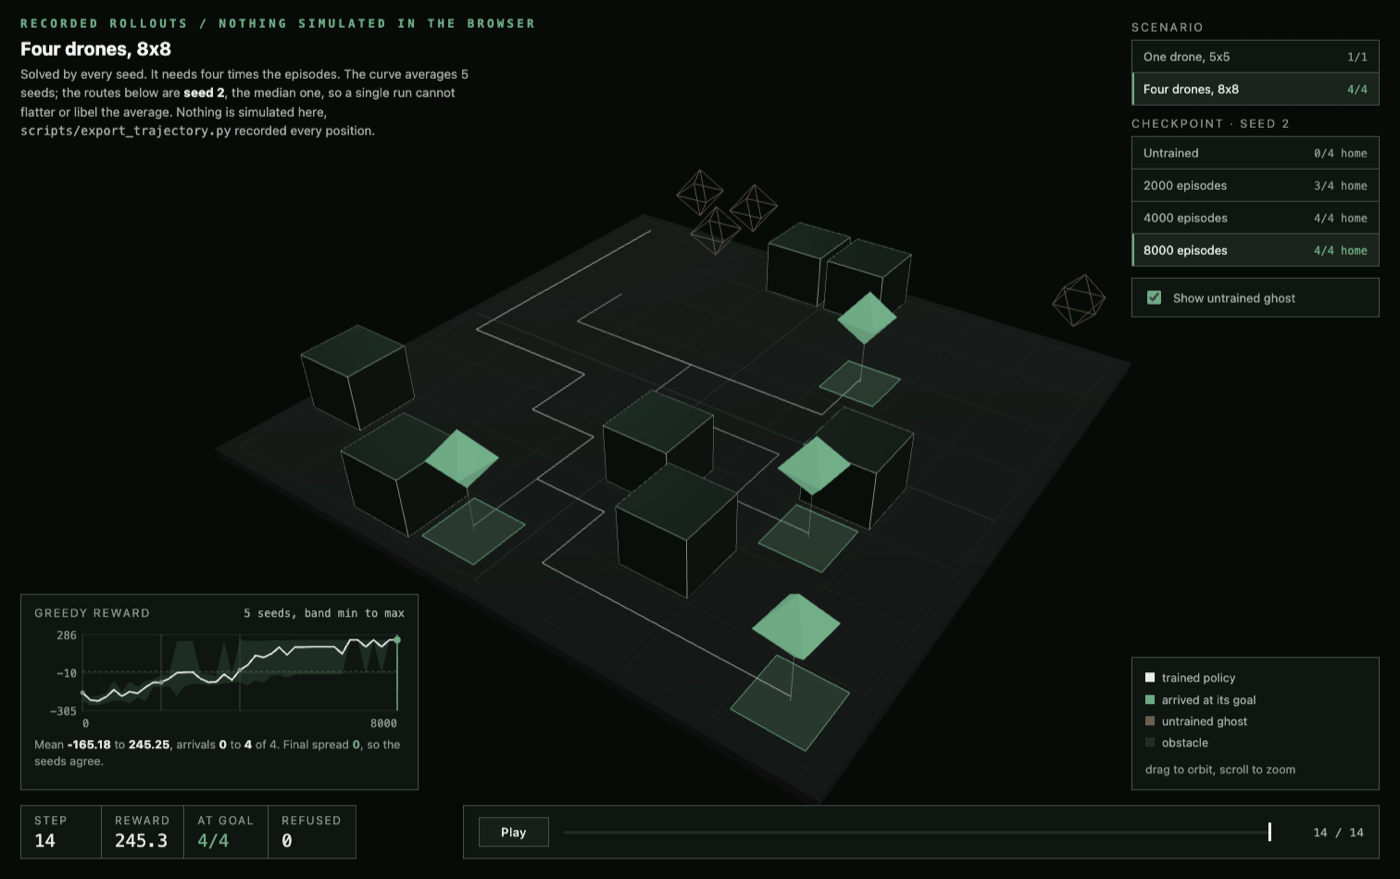
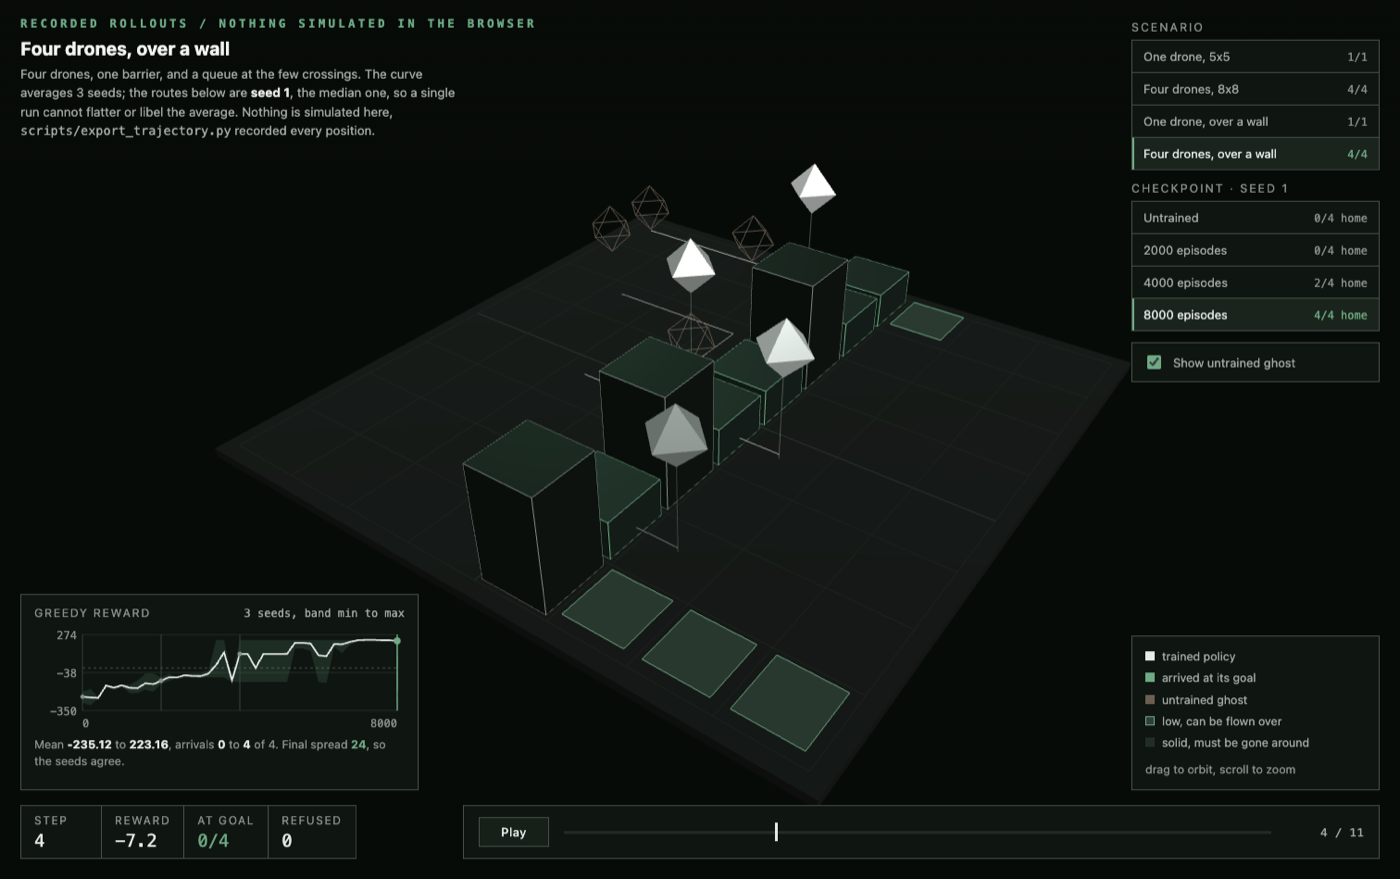
Solve four drones with flight, by fixing the mask that was blocking them (#40)
Four drones over a barrier now reach every goal on all five seeds, each
climbing exactly once, on a course with no ground route at all. Stable across
checkpoints rather than peaking and decaying: identical results at 8000 and
20000 episodes.

What had been blocking it was not the algorithm. It was a regression introduced
by the previous commit's own fix.

Renormalising a masked distribution by a clamped floor stops normalising once
the surviving mass falls below the floor, which the integrity validator
correctly reported. Falling back to a uniform row whenever that happened did
fix the arithmetic and broke something quieter: it discarded the policy's
ranking among the actions that were still legal. Greedy prediction then takes
the lowest index, which is hover.

The trace is unambiguous. A drone one cell from its goal sat on hover for
thirteen consecutive steps while standing on a teammate's goal, blocking it, at
a flat 0.25 across every legal action. The teammate meanwhile wanted that cell
at 0.94 and was refused every single step. Two seeds of five failed exactly
this way, and both read as a coordination failure when the cause was
arithmetic.

Rescaling by the row's own peak keeps the ordering and makes the sum safe to
divide by, since the largest legal entry becomes exactly 1. Only a row whose
legal mass is exactly zero falls back to uniform, and there the policy really
has no preference left to preserve.
[…]

diff --git a/docs/sim.html b/docs/sim.html
@@ -193,7 +193,8 @@
   <div><span class="swatch" style="background:#e8ebe9"></span>trained policy</div>
   <div><span class="swatch" style="background:#6faa85"></span>arrived at its goal</div>
   <div><span class="swatch" style="background:#6b5f52"></span>untrained ghost</div>
-  <div><span class="swatch" style="background:#232d27"></span>obstacle</div>
+  <div><span class="swatch" style="background:#2f4038;border:1px solid #6faa85"></span>low, can be flown over</div>
+  <div><span class="swatch" style="background:#232d27"></span>solid, must be gone around</div>
   <div style="margin-top:6px;color:#8b938e">drag to orbit, scroll to zoom</div>
 </div>
 
@@ -260,6 +261,7 @@ let run = null;          // active checkpoint
 let ghostRun = null;     // its untrained counterpart
 let drones = [], trails = [], stems = [], ghosts = [];
 let world = () => new THREE.Vector3();
+let LIFT = 1.05;
 let cursor = 0, playing = true;
 let holding = 0;              // seconds spent dwelling on the finished state
 const SPEED = 3.2;            // frames per second
@@ -286,7 +288,11 @@ function buildScene(sc) {
   const off = (N - 1) / 2;
   world = (x, y) => new THREE.Vector3(x - off, 0, y - off);
 
-  FLY = Math.max(0.78, N * 0.115);   // always clears an obstacle top at 0.67
+  // Ground height for a landed drone, and how far one rise lifts it. A landed
+  // drone must sit below a low obstacle top and an airborne one above it, or the
+  // picture contradicts the rule the environment is enforcing.
+  FLY = 0.42;
+  LIFT = 1.05;
   scene.fog = new THREE.Fog(0x070b08, N * 1.8, N * 4.4);
   camera.position.set(N * 0.80, N * 0.92, N * 1.12);
   controls.target.set(0, -0.7, 0);
@@ -306,14 +312,24 @@ function buildScene(sc) {
   grid.position.y = -0.11;
   board.add(grid);
 
-  const obGeo = new THREE.BoxGeometry(0.88, 0.78, 0.88);
-  const obMat = new THREE.MeshStandardMaterial({ color: 0x232d27, roughness: 0.55, metalness: 0.5 });
-  const edgeMat = new THREE.LineBasicMaterial({ color: 0x7c8a82 });
-  for (const [x, y] of sc.obstacles) {
-    const m = new THREE.Mesh(obGeo, obMat);
-    m.position.copy(world(x, y)).setY(0.28);
+  // Obstacles carry a height. A low one can be flown over and a solid one cannot,
+  // so they are drawn at different heights and in different materials: reading
+  // them alike would hide the only decision this scene is about.
+  const ceiling = sc.maxAltitude || 0;
+  const tallMat = new THREE.MeshStandardMaterial({ color: 0x232d27, roughness: 0.55, metalness: 0.5 });
+  const lowMat = new THREE.MeshStandardMaterial({ color: 0x2f4038, roughness: 0.5, metalness: 0.45 });
+  const tallEdge = new THREE.LineBasicMaterial({ color: 0x7c8a82 });
+  const lowEdge = new THREE.LineBasicMaterial({ color: 0x6faa85 });
+  for (const cell of sc.obstacles) {
+    const [x, y] = cell;
+    const h = cell.length > 2 ? cell[2] : 2;         // older exports had no height
+    const crossable = ceiling > 0 && h <= ceiling;
+    const tall = crossable ? 0.5 : 1.5;
+    const geo = new THREE.BoxGeometry(0.88, tall, 0.88);
+    const m = new THREE.Mesh(geo, crossable ? lowMat : tallMat);
+    m.position.copy(world(x, y)).setY(tall / 2 - 0.11);
     board.add(m);
-    const e = new THREE.LineSegments(new THREE.EdgesGeometry(obGeo), edgeMat);
+    const e = new THREE.LineSegments(new THREE.EdgesGeometry(geo), crossable ? lowEdge : tallEdge);
     e.position.copy(m.position);
     board.add(e);
   }
@@ -377,9 +393,13 @@ function paint() {
   const showGhost = el('ghost').checked && ghostRun && ghostRun !== run;
 
   for (let d = 0; d < drones.length; d++) {
+    // Interpolate altitude too, so a climb reads as a rise rather than a jump.
+    const aAlt = a.altitudes ? a.altitudes[d] : 0;
+    const bAlt = b.altitudes ? b.altitudes[d] : 0;
     drones[d].position.lerpVectors(
       world(a.positions[d][0], a.positions[d][1]),
-      world(b.positions[d][0], b.positions[d][1]), t).setY(FLY);
+      world(b.positions[d][0], b.positions[d][1]), t)
+      .setY(FLY + LIFT * (aAlt + (bAlt - aAlt) * t));
     drones[d].rotation.y += 0.012;
 
     const home = a.atGoal[d];
@@ -394,7 +414,7 @@ function paint() {
     // Routes are traced on the floor. Drawn at flight height they hang in the
     // air and read as stray geometry rather than as a path anyone took.
     const pts = run.frames.slice(0, i + 1)
-      .map(f => world(f.positions[d][0], f.positions[d][1]).setY(0.02));
+      .map(f => world(f.positions[d][0], f.positions[d][1]).setY(0.02));  // route on the ground
     pts.unshift(world(S.starts[d][0], S.starts[d][1]).setY(0.02));
     trails[d].geometry.dispose();
     trails[d].geometry = new THREE.BufferGeometry().setFromPoints(pts);

diff --git a/src/agents/ppo_agent.py b/src/agents/ppo_agent.py
@@ -204,25 +204,35 @@ class PPOAgent:
             mask[..., 5:7] = 1.0 - vertical.reshape(mask[..., 5:7].shape)
 
         masked = probs * mask
-        total = masked.sum(dim=-1, keepdim=True)
 
-        # Renormalising by a clamped floor is wrong whenever the surviving mass
-        # falls below it. A confident policy puts nearly all its weight on one
-        # action; when the mask removes exactly that action the legal remainder
-        # can be far under any fixed epsilon, and dividing by the floor instead
-        # of the true sum leaves a row that is not a distribution at all. Torch
-        # renormalises inside Categorical, so nothing crashes and the policy
-        # keeps acting, which is precisely why this survived unnoticed until the
-        # integrity validator reported the drift during a fleet run.
+        # Normalising this row is fiddlier than it looks, and both obvious ways
+        # are wrong.
         #
-        # Underflow all the way to zero is the sharper failure: the row becomes
-        # all zeros and cannot be sampled from.
+        # Dividing by a clamped floor fails when the surviving mass falls under
+        # the floor: a confident policy puts nearly all its weight on one action,
+        # and if the mask removes exactly that action the legal remainder can be
+        # far below any fixed epsilon, so dividing by the floor rather than the
+        # true sum leaves a row that is not a distribution. Torch renormalises
+        # inside Categorical, so nothing raises and the policy keeps acting;
+        # the integrity validator is what reported the drift.
         #
-        # Where the policy has no usable opinion left, spread the choice evenly
-        # over whatever is still legal. That is the honest reading of the state,
-        # and every row stays a real distribution.
-        legal = mask.sum(dim=-1, keepdim=True).clamp_min(1.0)
-        return torch.where(total > 1e-8, masked / total.clamp_min(1e-8), mask / legal)
+        # Flattening the row to uniform whenever that happens is worse, and in a
+        # way that is invisible in the loss. It throws away the policy's ranking
+        # among the actions that ARE legal, and greedy prediction then just takes
+        # the lowest index, which is hover. Measured on a four drone flight run:
+        # a drone one cell from its goal hovered for thirteen consecutive steps
+        # while standing on a teammate's goal and blocking it, purely because its
+        # distribution had been flattened. Two seeds of five failed that way and
+        # both looked like a coordination failure rather than an arithmetic one.
+        #
+        # Rescaling by the row's own peak keeps the ordering and makes the sum
+        # safe to divide by, because the largest legal entry becomes exactly 1.
+        # Only a row whose legal mass is exactly zero falls back to uniform, and
+        # there the policy genuinely has no preference left to preserve.
+        tiny = torch.finfo(masked.dtype).tiny
+        peak = masked.max(dim=-1, keepdim=True).values
+        scaled = torch.where(peak > 0, masked / peak.clamp_min(tiny), mask)
+        return scaled / scaled.sum(dim=-1, keepdim=True).clamp_min(tiny)
 
     def _guard_probs(self, probs, value):
         """Report a non-finite policy output as drift before it can crash."""

diff --git a/scripts/export_trajectory.py b/scripts/export_trajectory.py
@@ -53,8 +53,26 @@ SCENARIOS = [
         "key": "fleet",
         "name": "Four drones, 8x8",
         "config": "configs/sim.yaml",
+        # Twelve thousand, not eight. Widening the observation for altitude made
+        # this profile slower to learn without making it harder: eight thousand
+        # solved three seeds of five, twelve thousand solves all five and lands
+        # on the same fourteen step schedule as before.
+        "episodes": 12000,
+        "blurb": "Solved by every seed, on the shortest schedule that exists.",
+    },
+    {
+        "key": "fly",
+        "name": "One drone, over a wall",
+        "config": "configs/fly.yaml",
+        "episodes": 2000,
+        "blurb": "A barrier with no way around it, so climbing is the only route.",
+    },
+    {
+        "key": "fly-fleet",
+        "name": "Four drones, over a wall",
+        "config": "configs/fly-fleet.yaml",
         "episodes": 8000,
-        "blurb": "Solved by every seed. It needs four times the episodes.",
+        "blurb": "Four drones, one barrier, and a queue at the few crossings.",
     },
 ]
 
@@ -81,6 +99,7 @@ def rollout(env, agent, seed, record=True):
             frames.append(
                 {
                     "positions": [[int(p[0]), int(p[1])] for p in env.positions],
+                    "altitudes": [int(a) for a in env.altitudes],
                     "atGoal": [
                         bool(np.array_equal(env.positions[i], env.goals[i]))
                         for i in range(env.num_drones)
@@ -114,7 +133,13 @@ def one_seed(spec, root, env_seed, torch_seed, sample_at, checkpoints, record):
         "gridSize": env.grid_size,
         "numDrones": env.num_drones,
         "maxSteps": env.max_steps,
-        "obstacles": [[int(x), int(y)] for x, y in zip(*np.where(env.obstacles))],
+        # Height, not just presence. A low obstacle is one a drone can fly over,
+        # and drawing the two alike would hide the entire decision.
+        "obstacles": [
+            [int(x), int(y), int(env.heights[x, y])]
+            for x, y in zip(*np.where(env.heights > 0))
+        ],
+        "maxAltitude": int(env.max_altitude),
         "goals": [[int(g[0]), int(g[1])] for g in env.goals],
         "starts": [[int(p[0]), int(p[1])] for p in env.positions],
     }

diff --git a/tests/test_learning_fixes.py b/tests/test_learning_fixes.py
@@ -200,3 +200,36 @@ def test_masking_survives_total_probability_underflow():
     assert abs(float(masked.sum()) - 1.0) < 1e-5
     assert not bool(torch.isnan(masked).any())
     Categorical(masked).sample()    # must not raise
+
+
+def test_masking_preserves_the_ranking_among_legal_actions():
+    """A flattened row is worse than an unnormalised one.
+
+    Falling back to uniform whenever the legal mass is small throws away the
+    policy's ordering, and greedy prediction then takes the lowest index, which
+    is hover. Measured on a four drone flight run: a drone one cell from its goal
+    hovered for thirteen consecutive steps while standing on a teammate's goal
+    and blocking it. It read as a coordination failure and was arithmetic.
+    """
+    import numpy as np
+    import torch
+
+    from agents.ppo_agent import PPOAgent
+    from env.drone_env import DroneEnv
+
+    env = DroneEnv("configs/fly-fleet.yaml")
+    env.reset(seed=7)
+    agent = PPOAgent(env, action_masking=True)
+
+    width = env.observation_space.shape[-1]
+    obs = np.zeros((1, width), dtype=np.float32)
+    obs[0, 5:9] = [0, 0, 1, 0]      # only "left" is blocked
+    obs[0, 18:20] = [1, 1]          # no vertical option
+
+    # Nearly all the mass sits on the blocked action, but the legal actions are
+    # still ordered: "right" outranks the rest.
+    probs = torch.tensor([[1e-20, 2e-20, 3e-20, 1.0 - 6e-20, 5e-20, 1e-20, 1e-20]])
+    masked = agent._mask_probs(obs, probs)
+
+    assert abs(float(masked.sum()) - 1.0) < 1e-5
+    assert int(masked.argmax()) == 4, "the best legal action must survive the mask"

diff --git a/README.md b/README.md
@@ -93,14 +93,18 @@ The validators report and continue; they do not halt a run. That is the right ca
 
 ## What it learns, and how that was measured
 
-Both profiles are solved, by every seed, on the optimal route.
+Every profile is solved, by every seed.
 
-| profile | episodes | seeds solving it | steps taken | lower bound |
+| profile | episodes | seeds solving it | steps | lower bound |
 |---|---|---|---|---|
 | One drone, 5x5 | 1000 | 5 of 5 | **4** | 4 |
-| Four drones, 8x8 | 8000 | 5 of 5 | **14** | 14 |
+| Four drones, 8x8 | 12000 | 5 of 5 | **14** | 14 |
+| One drone, over a wall | 2000 | 5 of 5 | 7 | cost 8.5 vs optimal 8.5 |
+| Four drones, over a wall | 8000 | 5 of 5 | 11 | flight required |
 
-The lower bound is the longest single-agent shortest path, from breadth-first search on the same board. No schedule can finish before its slowest drone could fly straight there alone, so matching it means every other drone yielded at **zero cost** to it. The fleet is not merely arriving; it is coordinating without waste.
+The lower bound on the flat profiles is the longest single-agent shortest path, from breadth-first search on the same board. No schedule can finish before its slowest drone could fly straight there alone, so matching it means every other drone yielded at **zero cost** to it. The fleet is not merely arriving; it is coordinating without waste.
+
+The two wall profiles are scored against Dijkstra over `(x, y, altitude)` rather than breadth-first search, because once altitude costs fuel the steps are no longer equal. On both of them **there is no ground route at all**, so a drone that never learns to climb never arrives.
 
 Reaching that took four fixes. Each was a real defect, each was found by measuring rather than reading, and only the last one felt like machine learning.
 
@@ -152,14 +156,18 @@ Both profiles, replayed at four points during training. Orbit with the mouse, sc
 
 Nothing is simulated in the browser. `scripts/export_trajectory.py` plays greedy episodes against a live policy and writes every position to `docs/trajectory.json`; the page draws that file and computes nothing of its own. Greedy rather than sampled, because training reward is noisy while the policy is still exploring and the honest question is what it would do if you asked it now.
 
-| profile | mean reward, 5 seeds | drones home | spread across seeds at the end |
+| profile | mean reward | drones home | spread across seeds at the end |
 |---|---|---|---|
-| One drone, 5x5 | `-28.50` to `+61.06` | `0.0` to `1.0` of 1 | **`0`** |
-| Four drones, 8x8 | `-165.18` to `+245.25` | `0.0` to `4.0` of 4 | **`0`** |
+| One drone, 5x5 | `-28.89` to `+61.06` | `0.0` to `1.0` of 1 | **`0`** |
+| Four drones, 8x8 | `-196.35` to `+245.25` | `0.0` to `4.0` of 4 | **`0`** |
+| One drone, over a wall | `-49.16` to `+57.62` | `0.0` to `1.0` of 1 | **`0`** |
+| Four drones, over a wall | `-235.12` to `+223.16` | `0.0` to `4.0` of 4 | `24` |
 
 That last column is why the curve is drawn as a band rather than a line. A zero-width band means all five seeds finished on the same number, which is convergence rather than an average of runs that disagreed with each other.
 
-Scrubbing the fleet timeline is the part worth doing. Untrained, the drones refuse **76** moves across 40 steps, roughly two every step, which is four drones colliding continuously. At 2000 episodes that falls to 8 refusals and three drones arrive. At 4000 it reaches zero refusals and all four arrive in 14 steps, and 8000 does not improve on 14 because 14 is the floor.
+Scrubbing the fleet timeline is the part worth doing. Untrained, the drones refuse **76** moves across 40 steps, roughly two every step, which is four drones colliding continuously. At 2000 episodes that falls to 8 refusals and three drones arrive. At 4000 it reaches zero refusals and all four arrive in 14 steps, and later checkpoints do not improve on 14 because 14 is the floor.
+
+The wall scenarios are the ones where the third dimension carries information rather than decoration. Step through **Four drones, over a wall** and at step 4 all four are airborne at once, crossing the barrier together; by step 7 every one has landed. Low segments of the wall are drawn short and green because a drone may fly over them, solid ones tall and dark because it may not.
 
 Two details in the viewer exist to keep it honest. The replayed routes are the **median seed**, not the first one, so a single lucky or unlucky run cannot flatter or libel the average printed beside it. And an early single-seed export scored *better untrained* than after 2000 episodes, which was network initialisation luck; that is why torch is now seeded and the curve is averaged.
 
